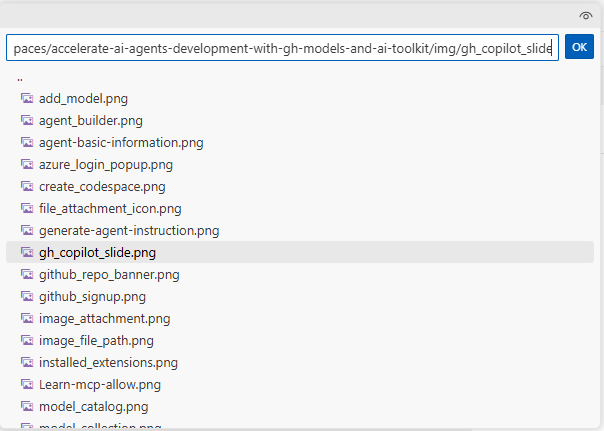
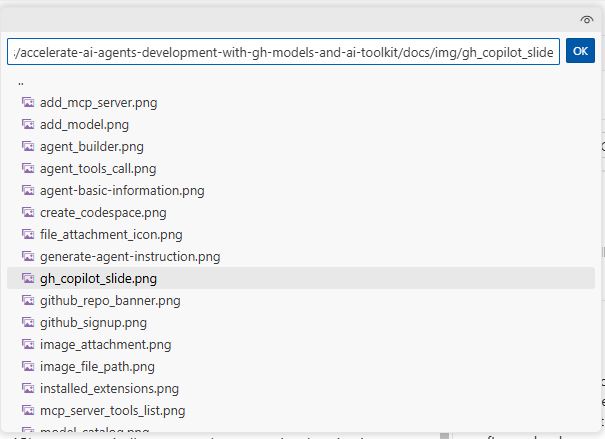
Fixing image attachment file path

diff --git a/docs/en/02_Model_Selection.md b/docs/en/02_Model_Selection.md
@@ -94,7 +94,7 @@ Now, test the models' image processing capabilities:
 
 3. Select an image file to upload. You'll be prompted with a text field with a default file path in your workspace directory. Replace it with the following:
    ```
-   /workspaces/accelerate-ai-agents-development-with-gh-models-and-ai-toolkit/img/gh_copilot_slide.png
+   /workspaces/accelerate-ai-agents-development-with-gh-models-and-ai-toolkit/docs/img/gh_copilot_slide.png
    ```
 ![Image File Path](../img/image_file_path.png)
 
